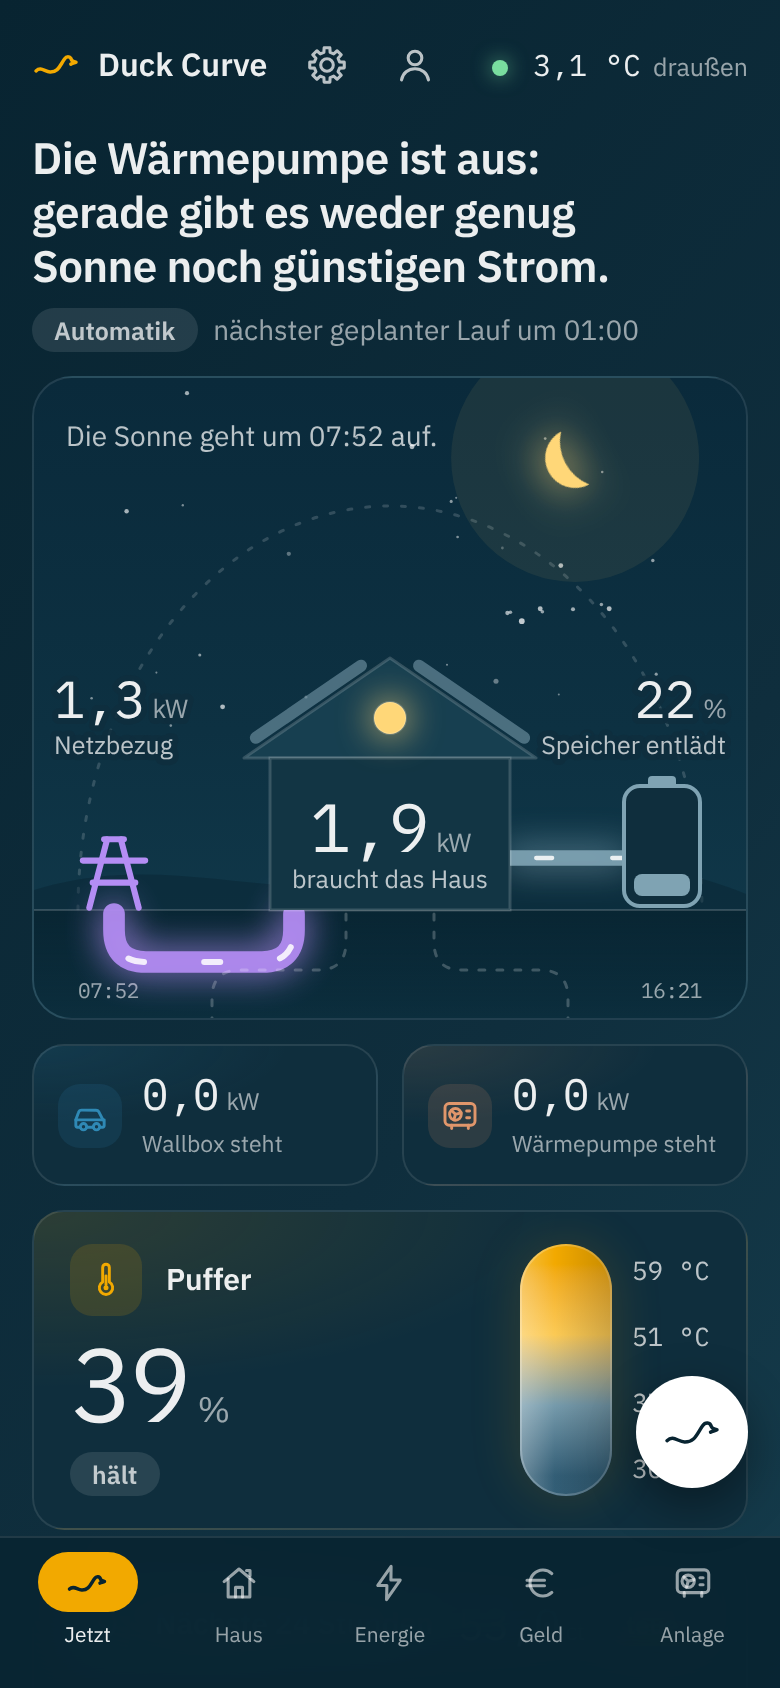
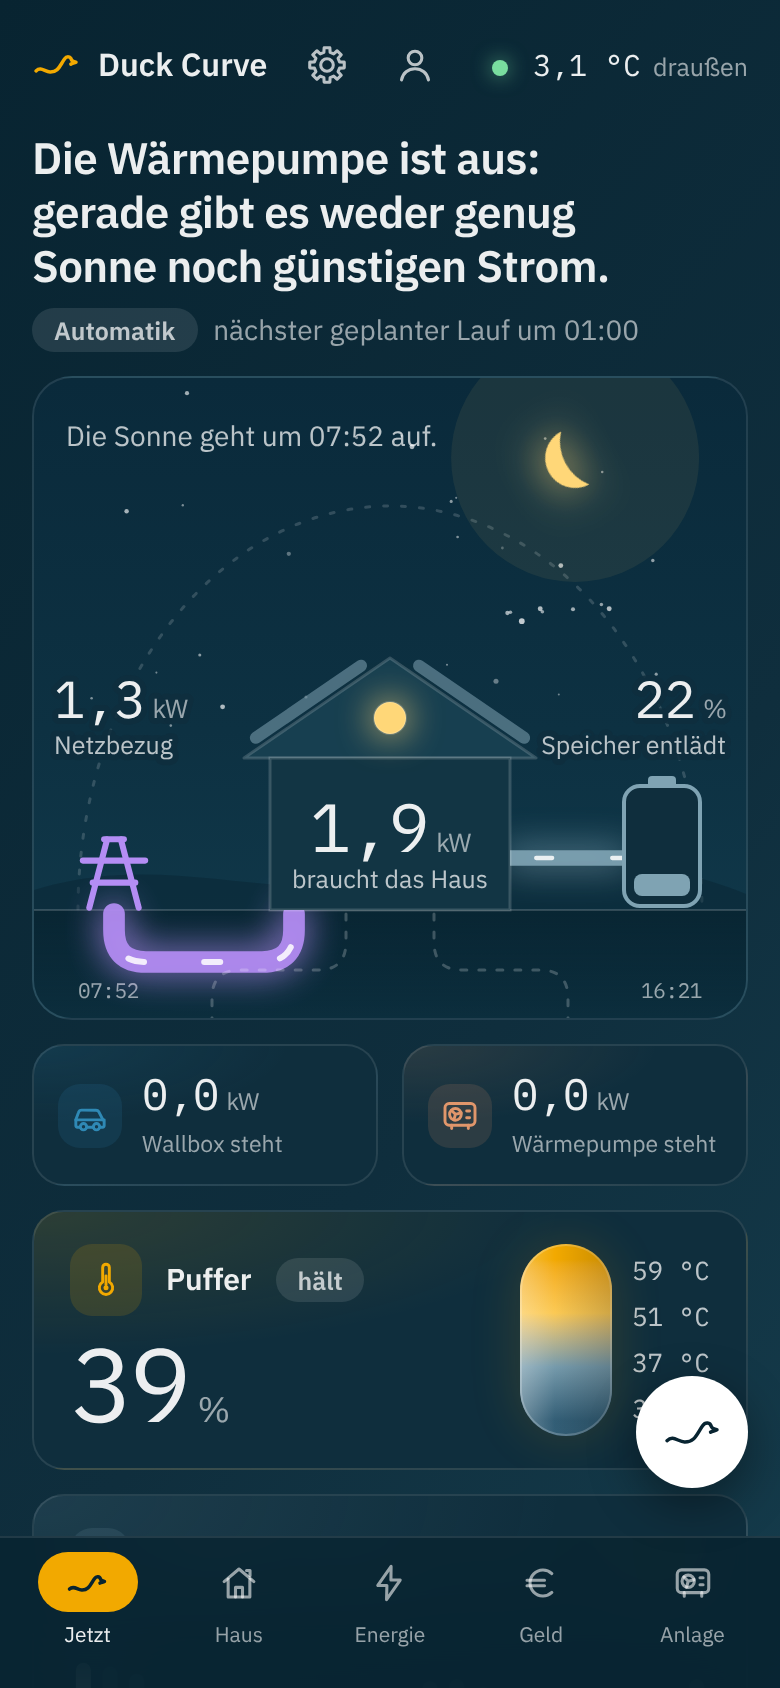
Werkstatt Startseite: der Entwurf „Das Kachelfeld“
Sechs Sachen als Kacheln in der eingeführten Kartensprache, der Satz als
Zustandskachel, die Schalter als Streifen am Fuß.

Claude-Session: https://claude.ai/code/session_01U1XLnTNVcqfKWEYnf9U3ri

diff --git a/docs/design/werkstatt/startseite/kacheln/entwurf.html b/docs/design/werkstatt/startseite/kacheln/entwurf.html
@@ -1,0 +1,108 @@
+<!doctype html>
+<html lang="de">
+<head>
+<meta charset="utf-8">
+<meta name="viewport" content="width=device-width, initial-scale=1, viewport-fit=cover">
+<title>Entwurf: Das Kachelfeld</title>
+<link rel="stylesheet" href="../grundlage/grund.css">
+<link rel="stylesheet" href="../grundlage/bausteine.css">
+<style>
+  .seite { display: grid; gap: 14px; padding: 14px 22px 20px; }
+  .seite > *, .feld > * { min-width: 0; }
+  .feld { display: grid; gap: 14px; min-height: 0; }
+
+  /* Die Kachel des Satzes trägt die Farbe des Zustands. */
+  .k-satz { display: flex; flex-direction: column; justify-content: space-between; gap: 14px; padding: 20px 22px; border-color: color-mix(in srgb, var(--kartenfarbe) 40%, transparent); background: radial-gradient(130% 100% at 0% 0%, color-mix(in srgb, var(--kartenfarbe) 30%, transparent), transparent 70%), var(--surface-1); }
+  .k-satz .satz h1 { font-size: 27px; }
+  .k-satz .wache { font-size: 13.5px; }
+  .k-satz .kicker { display: flex; align-items: center; gap: 8px; }
+  /* Das Zeichen des Zustands steht groß und blass in der Ecke. */
+  .k-satz .wasser { position: absolute; right: -18px; top: -14px; color: var(--kartenfarbe); opacity: 0.16; pointer-events: none; }
+  .k-satz .wasser svg { stroke-width: 1.1; }
+  .k-satz .satz { position: relative; }
+
+  /* Eine Sache: Zeichenfeld und Name oben, große Zahl und Zustand unten, ein Balken am Fuß. */
+  .sache { display: flex; flex-direction: column; justify-content: space-between; gap: 8px; padding: 14px 16px 16px; }
+  .sache .grosszahl { font-size: 40px; }
+  .sache-name { display: flex; flex-direction: column; gap: 1px; min-width: 0; }
+  .sache-name span { font-size: 12.5px; color: var(--text-3); white-space: nowrap; }
+  .sache[data-an="true"] .sache-name span { color: color-mix(in srgb, var(--kartenfarbe) 62%, #fff); }
+  .sache-balken { position: absolute; left: 0; bottom: 0; height: 4px; width: var(--anteil); border-radius: 0 3px 3px 0; background: var(--kartenfarbe); box-shadow: 0 0 12px var(--kartenfarbe); }
+  .sache[data-an="true"] { border-color: color-mix(in srgb, var(--kartenfarbe) 48%, transparent); background: radial-gradient(130% 110% at 0% 0%, color-mix(in srgb, var(--kartenfarbe) 30%, transparent), transparent 70%), var(--surface-1); }
+  .sache[data-an="false"] .grosszahl { color: var(--text-3); }
+  .sache[data-an="false"] .zeichenfeld { color: var(--text-3); background: color-mix(in srgb, var(--text-3) 12%, transparent); }
+  .k-haus { --kartenfarbe: var(--house); }
+  .k-haus .grosszahl { font-size: 48px; }
+
+  @media (min-width: 721px) {
+    html, body { height: 100%; overflow: hidden; }
+    .seite { height: 100dvh; grid-template-rows: auto minmax(0, 1fr); }
+    .feld { grid-template-columns: repeat(6, minmax(0, 1fr)); grid-template-rows: 136px 136px minmax(0, 1fr) 88px; }
+    .k-satz { grid-column: span 2; grid-row: span 2; }
+    .k-puffer { grid-column: span 2; }
+    .k-tag { grid-column: span 4; }
+    .k-ausblick { grid-column: span 2; }
+    .k-ausblick .ausblick-bild { flex: 1; min-height: 0; }
+    /* Die Schalter liegen als Streifen am Fuß; Alfred hat rechts sein eigenes Feld. */
+    .k-dock { grid-column: 1 / -1; justify-content: center; padding: 10px 100px 10px 18px; }
+    .k-dock .tasten { grid-template-columns: repeat(7, minmax(0, 1fr)); gap: 8px; }
+    .k-dock .taste { display: grid; grid-template-columns: auto 1fr; grid-template-rows: 1fr 1fr; column-gap: 11px; justify-items: start; align-items: center; }
+    .k-dock .taste-rund { grid-row: 1 / span 2; height: 52px; width: 52px; }
+    .k-dock .taste-wort { align-self: end; font-size: 13px; }
+    .k-dock .taste-wort:last-child { grid-row: 1 / span 2; align-self: center; }
+    .k-dock .taste-dazu { align-self: start; margin-top: 1px; font-size: 11.5px; }
+    .ente { right: 40px; bottom: 36px; }
+  }
+  @media (max-width: 720px) {
+    .seite { padding: 10px 16px 112px; gap: 12px; }
+    .feld { grid-template-columns: 1fr 1fr; gap: 12px; }
+    .k-satz, .k-puffer, .k-tag, .k-ausblick, .k-dock { grid-column: 1 / -1; }
+    .k-satz { padding: 16px; }
+    .sache { min-height: 124px; }
+    .sache .grosszahl { font-size: 34px; }
+    .k-haus .grosszahl { font-size: 34px; }
+  }
+</style>
+</head>
+<body>
+<div class="seite" id="seite"></div>
+<script src="../grundlage/zeichen.js"></script>
+<script src="../grundlage/daten.js"></script>
+<script src="../grundlage/bausteine.js"></script>
+<script>
+(function () {
+  var S = window.SZENE, B = window.BAU, z = window.zeichen, de = window.de, f = S.fluss;
+  var laeuft = S.zustand === "waermepumpe-laeuft";
+
+  // Eine Sache als Kachel. anteil ist der Balken am Fuß: Leistung von 6 kW oder der Ladestand.
+  var sache = function (o) {
+    return '<a class="karte sache' + (o.klasse ? " " + o.klasse : "") + '" href="#" data-an="' + o.an + '" style="--kartenfarbe:' + o.farbe + ";--anteil:" + Math.round(Math.min(1, o.anteil) * 100) + '%">' +
+      '<div class="k-kopf"><span class="zeichenfeld">' + z(o.bild, 20) + '</span><div class="sache-name"><h2>' + o.name + "</h2><span>" + o.wort + "</span></div></div>" +
+      '<div class="grosszahl">' + o.zahl + "<small>" + o.einheit + "</small></div>" +
+      (o.an ? '<i class="sache-balken"></i>' : "") + "</a>";
+  };
+  var bezug = f.netz.richtung === "bezug";
+  var sachen = [
+    { klasse: "k-haus", farbe: "var(--house)", bild: "house", name: "Haus", zahl: de(f.haus.kw), einheit: "kW", wort: "braucht", an: true, anteil: f.haus.kw / 6 },
+    { farbe: "var(--pv)", bild: S.nacht ? "moon" : "sun", name: "Sonne", zahl: de(f.sonne.kw), einheit: "kW", wort: S.nacht ? "ab " + S.sonneAuf : "liefert", an: f.sonne.kw >= 0.05, anteil: f.sonne.kw / 6 },
+    { farbe: bezug ? "var(--grid-in)" : "var(--grid-out)", bild: "grid", name: "Netz", zahl: de(f.netz.kw), einheit: "kW", wort: bezug ? "Bezug" : "Einspeisung", an: f.netz.kw >= 0.05, anteil: f.netz.kw / 6 },
+    { farbe: "var(--battery)", bild: "battery", name: "Speicher", zahl: f.speicher.prozent, einheit: "%", wort: f.speicher.wort, an: f.speicher.wort !== "hält", anteil: f.speicher.prozent / 100 },
+    { farbe: "var(--heat-pump)", bild: "pump", name: "Wärmepumpe", zahl: de(f.waermepumpe.kw), einheit: "kW", wort: f.waermepumpe.wort, an: f.waermepumpe.kw >= 0.05, anteil: f.waermepumpe.kw / 6 },
+    { farbe: "var(--ev)", bild: "car", name: "Wallbox", zahl: de(f.wallbox.kw), einheit: "kW", wort: f.wallbox.wort, an: f.wallbox.kw >= 0.05, anteil: f.wallbox.kw / 6 },
+  ];
+  var satzfarbe = S.wache.length ? "var(--amber-soft)" : laeuft ? "var(--heat-pump)" : "var(--mist)";
+  var satz = '<section class="karte k-satz" style="--kartenfarbe:' + satzfarbe + '"><span class="kicker">' + z("duck", 18) + "Was das Haus gerade tut</span>" + '<span class="wasser">' + z(S.wache.length ? "alert" : laeuft ? "pump" : S.nacht ? "moon" : "sun", 170) + "</span>" + B.satz() + B.wache() + "</section>";
+
+  document.getElementById("seite").innerHTML = B.kopf() + '<div class="feld">' +
+    satz + sachen.slice(0, 4).map(sache).join("") +
+    sachen.slice(4).map(sache).join("") + B.puffer() +
+    B.tag() + B.ausblick() +
+    '<section class="karte k-dock">' + B.tasten() + "</section>" +
+    "</div>" + B.leiste() + B.ente();
+
+  B.tagEinrichten();
+  B.schalten();
+})();
+</script>
+</body>
+</html>

diff --git a/docs/design/werkstatt/startseite/grundlage/bausteine.js b/docs/design/werkstatt/startseite/grundlage/bausteine.js
@@ -56,9 +56,8 @@
   B.puffer = function () {
     var p = S.puffer;
     return '<section class="karte k-puffer">' +
-      '<div class="puffer-links"><div class="k-kopf"><span class="zeichenfeld">' + z("thermo", 20) + "</span><h2>Puffer</h2></div>" +
-      '<div class="grosszahl">' + p.prozent + "<small>%</small></div>" +
-      '<span class="marke' + (p.wort === "lädt" ? " marke-hinweis" : "") + '">' + p.wort + "</span></div>" +
+      '<div class="puffer-links"><div class="k-kopf"><span class="zeichenfeld">' + z("thermo", 20) + "</span><h2>Puffer</h2>" + '<span class="marke' + (p.wort === "lädt" ? " marke-hinweis" : "") + '">' + p.wort + "</span></div>" +
+      '<div class="grosszahl">' + p.prozent + "<small>%</small></div></div>" +
       '<div class="tank"><div class="tank-glas" style="background:' + B.pufferVerlauf() + '"></div>' +
       '<div class="tank-fuehler">' + p.fuehlerC.map(function (t) { return "<span>" + t + " °C</span>"; }).join("") + "</div></div>" +
       "</section>";

diff --git a/docs/design/werkstatt/startseite/kacheln/begruendung.md b/docs/design/werkstatt/startseite/kacheln/begruendung.md
@@ -1,0 +1,35 @@
+# Das Kachelfeld
+
+**Leitidee.** Die Startseite spricht dieselbe Sprache wie alle übrigen Seiten: ein Feld aus
+Kacheln, jede eine Sache mit Zeichenfeld, großer Zahl und einem Wort für ihren Zustand. Was gerade
+arbeitet, leuchtet in seiner Farbe und trägt einen Balken am Fuß; was ruht, ist grau.
+
+## Was wo steht
+
+- **Der Satz** ist die größte Kachel links oben. Sie trägt die Farbe des Zustands (Terrakotta,
+  wenn die Wärmepumpe läuft, Bernstein bei einem Befund) und das Zeichen dazu groß und blass in
+  der Ecke. Ein Befund der Wache steht in derselben Kachel.
+- **Sechs Sachen** als gleich große Kacheln: Haus, Sonne, Netz, Speicher, Wärmepumpe, Wallbox.
+  Die Zahl ist an der Wand 40 Pixel hoch, die des Hauses 48.
+- **Puffer** daneben, **Tageskurve** breit darunter (sie bekommt hier die meiste Höhe), rechts die
+  **nächsten 24 Stunden**.
+- **Die Schalter** liegen als Streifen am Fuß, sieben in einer Reihe mit Namen und Zustand
+  daneben. Alfred hat rechts im Streifen sein eigenes Feld.
+- **Handy:** der Satz, dann die sechs Sachen in zwei Spalten, Puffer, Tag, 24 Stunden, Schalter.
+
+## Was sich gegenüber heute ändert
+
+- Das Flussbild fällt ganz weg. Woher der Strom kommt und wohin er geht, liest man aus den
+  Wörtern „Bezug“, „liefert“, „lädt“ und nicht mehr aus Linien. Das ist der Preis dieser Richtung.
+- Die 24 Stunden und die vier Zahlen wie bei der „Bühne“.
+
+## Bau in SwiftUI
+
+Der einfachste der Entwürfe: `Seitenkachel` und `Kontokarte` gibt es schon, das Raster ist ein
+`Grid` an der Wand und ein `LazyVGrid` am Handy. Neu sind nur der Balken am Fuß der Kachel und die
+Reihe der Schalter.
+
+## Offen
+
+- Sechs Kacheln zeigen sechs Zahlen gleich laut; die Rangfolge trägt allein der Satz.
+- Das Ruhebild ist nicht mitentworfen.
